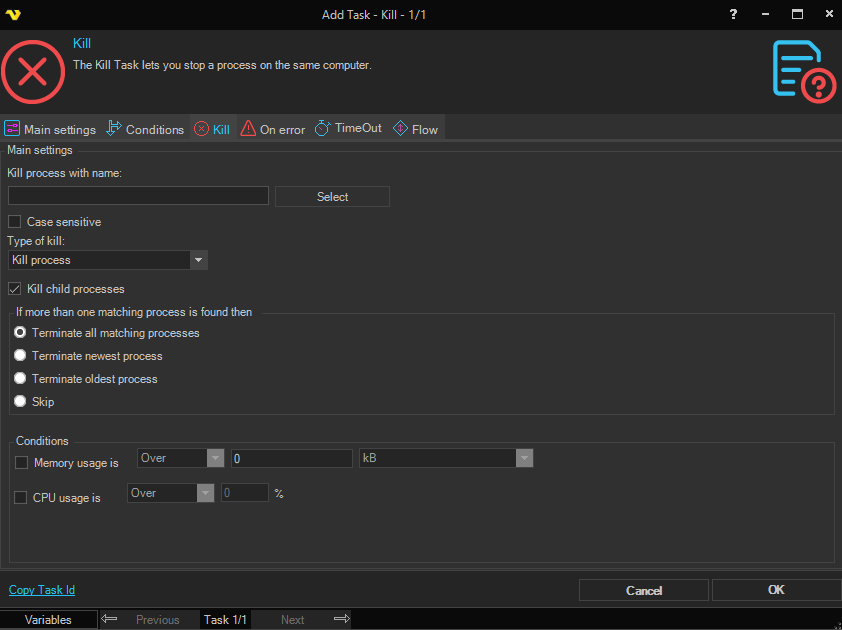
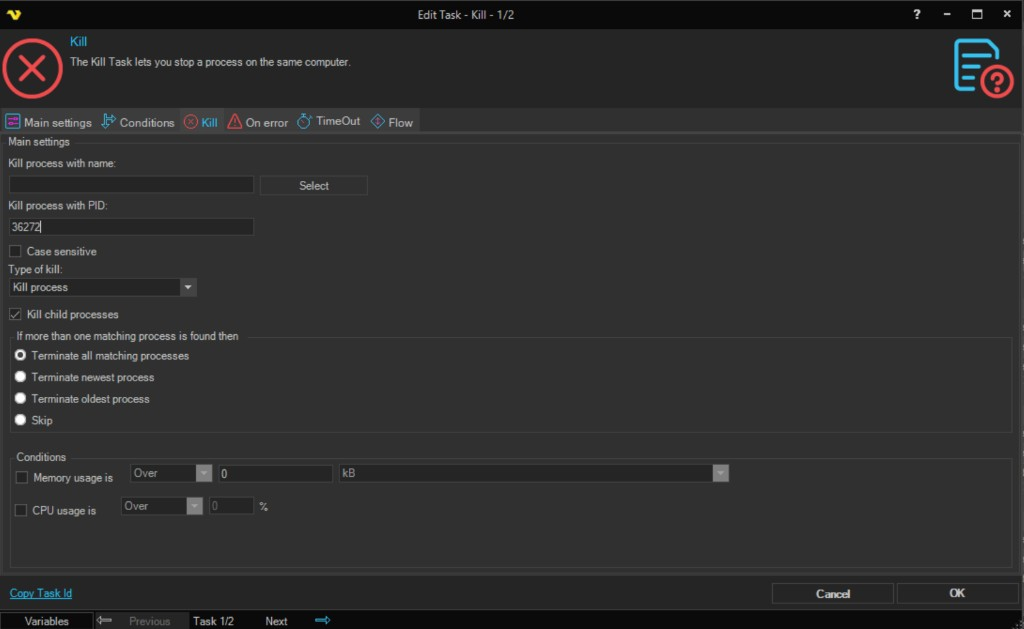
updating kill task info

diff --git a/docs/client-user-interface/server/job-tasks-task-process-kill.md b/docs/client-user-interface/server/job-tasks-task-process-kill.md
@@ -9,9 +9,17 @@ The Process - Kill Task lets you stop a process on the same computer.
 
 ![](../../../static/img/Client%20User%20Interface/Main%20Menu/Server/Jobs/Job%20Tasks/Tasks/Process%20Tasks/Kill.png)
 
-**Process name**
+**Kill process with name**
 
-Enter the name of the process, i.e. notepad.exe. If you want to be sure of the name then you can start the process on the server and the click on "Select" to show a list of all running processes.
+Enter the name of the process, i.e. notepad.exe. If you want to be sure of the name then you can start the process on the server and then click on "Select" to show a list of all running processes.
+
+**Kill process with PID**
+
+Enter the process id (PID) of the exact process you want to stop. Use this when several processes share the same name and you need to target one specific process.
+
+You can either type a PID (a positive whole number) or select a Variable that resolves to a PID at run time. Variables must be selected through VisualCron rather than typed by hand, so the correct Variable is always inserted. If the Variable does not resolve to a valid PID when the Task runs, the Task fails and reports that no process could be stopped.
+
+If both a process name and a PID are provided, the PID is used. A PID points to one exact process, while a name can match many, so the PID takes preference to avoid stopping the wrong process.
  
 **Case sensitive**
 
